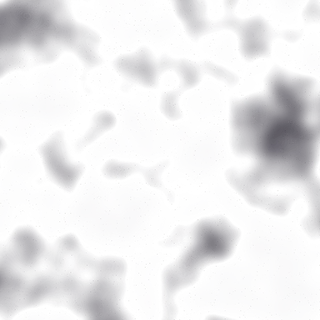
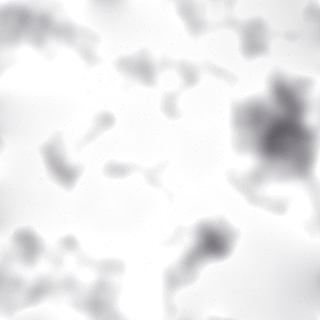
Fondo sin cuadros y parpadeo en su sitio (#8)
Dos fallos visibles sobre todo en modo oscuro:

- **Cuadrícula en el fondo.** Las texturas de nubes (`paper-cloud`,
`desk-cloud`) no eran continuas en los bordes: el salto entre bordes
opuestos era 5–10 veces el de dos píxeles vecinos, y al repetirse cada
640 px se veían bloques. Se rehacen periódicas con la descomposición
periódica + suave de Moisan: el salto queda igual que entre vecinos
(0,77 frente a 0,75 en el escritorio; 0,93 frente a 1,01 en el papel),
con el mismo alfa medio.
- **Círculo crema que aparece y desaparece arriba.** Era el párpado de
la mascota: GSAP lo escalaba desde el origen del SVG
(`matrix(1,0,0,s,0,0)`), así que al parpadear barría desde encima de la
lámina hasta el ojo. Ahora cuelga de un grupo en el borde superior del
ojo y se escala desde ahí. Medido en Chromium headless durante 12 s (83
frames con parpadeo): el párpado va de y=407 a 450, sobre el ojo
(410–448); antes iba de 206 a 248, fuera de la lámina.

diff --git a/src/scripts/motion.ts b/src/scripts/motion.ts
@@ -156,7 +156,8 @@ function ink(gsap: Gsap, late: boolean) {
 function blink(gsap: Gsap) {
   const lid = document.querySelector('[data-lid]')
   if (!lid) return
-  gsap.set(lid, { scaleY: 0, svgOrigin: '27.5 25.7' })
+  // Scaled from its own 0 0, the top of the eye (Mascot.astro): no origin for GSAP to work out.
+  gsap.set(lid, { scaleY: 0, transformOrigin: '0 0' })
   const once = () => gsap.timeline().to(lid, { scaleY: 1, duration: 0.07, ease: 'sine.in' }).to(lid, { scaleY: 0, duration: 0.13, ease: 'sine.out' })
   const next = () => {
     if (root.classList.contains('still') || !root.contains(lid)) return  // motion was paused: stop blinking
